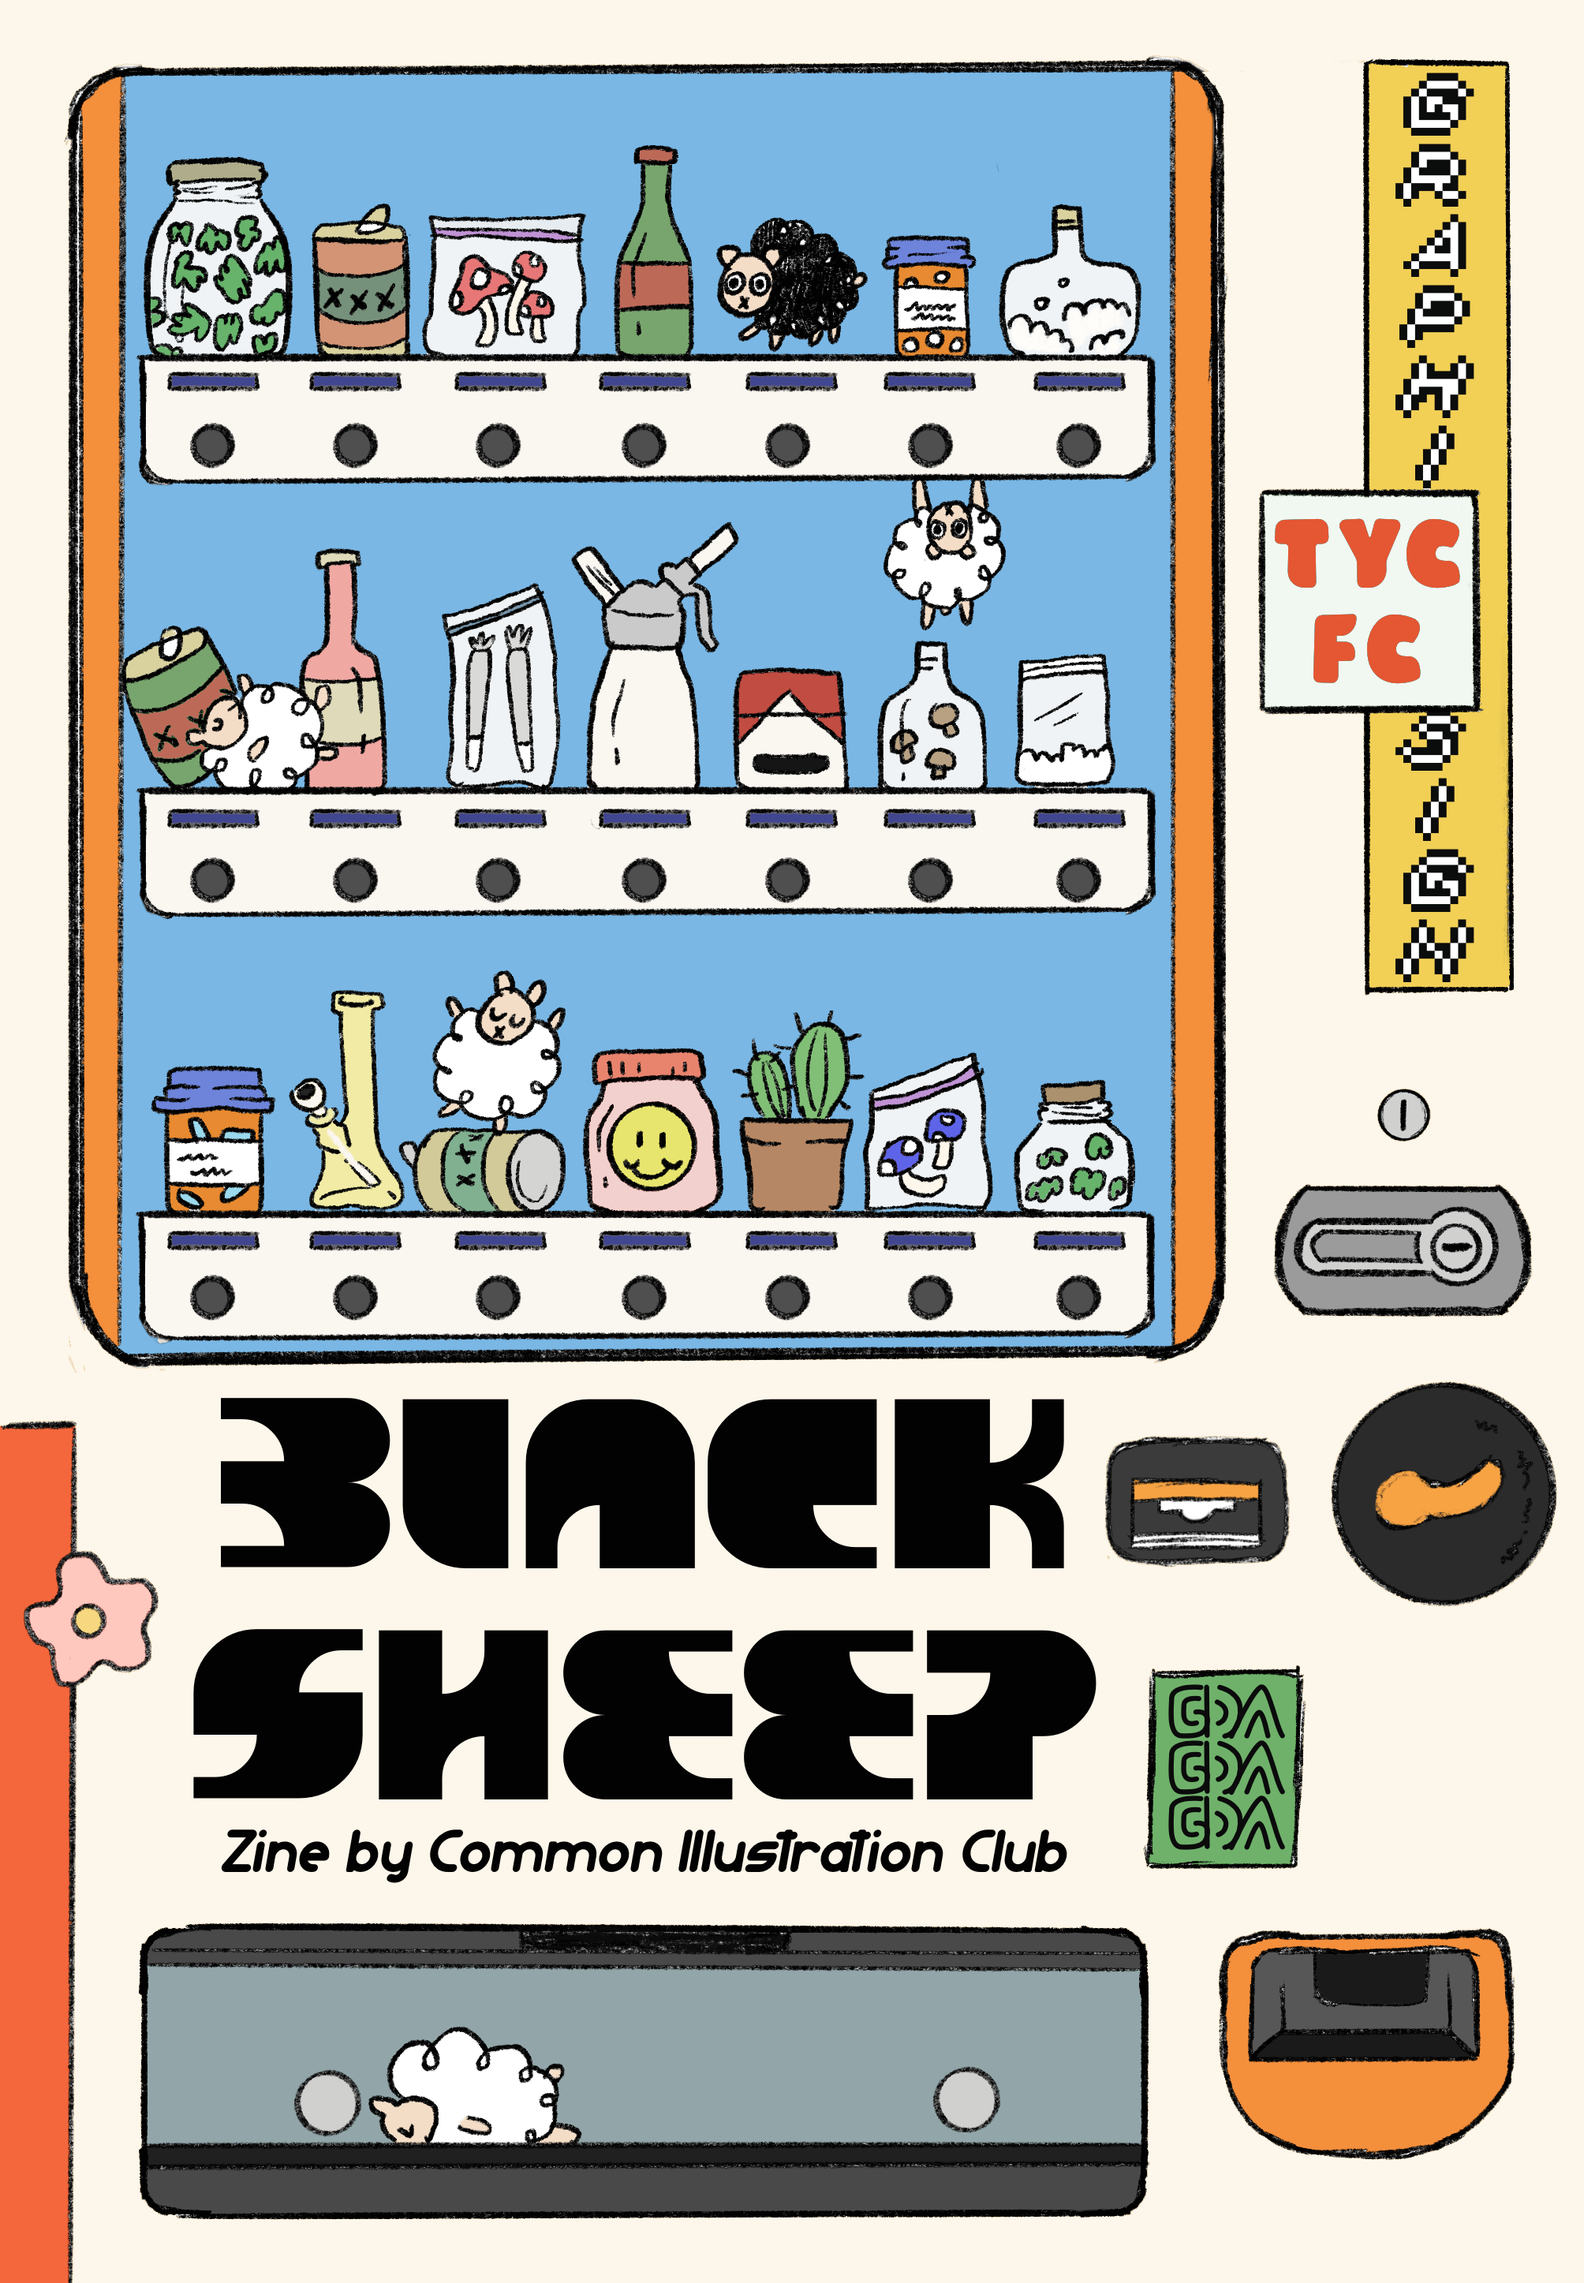
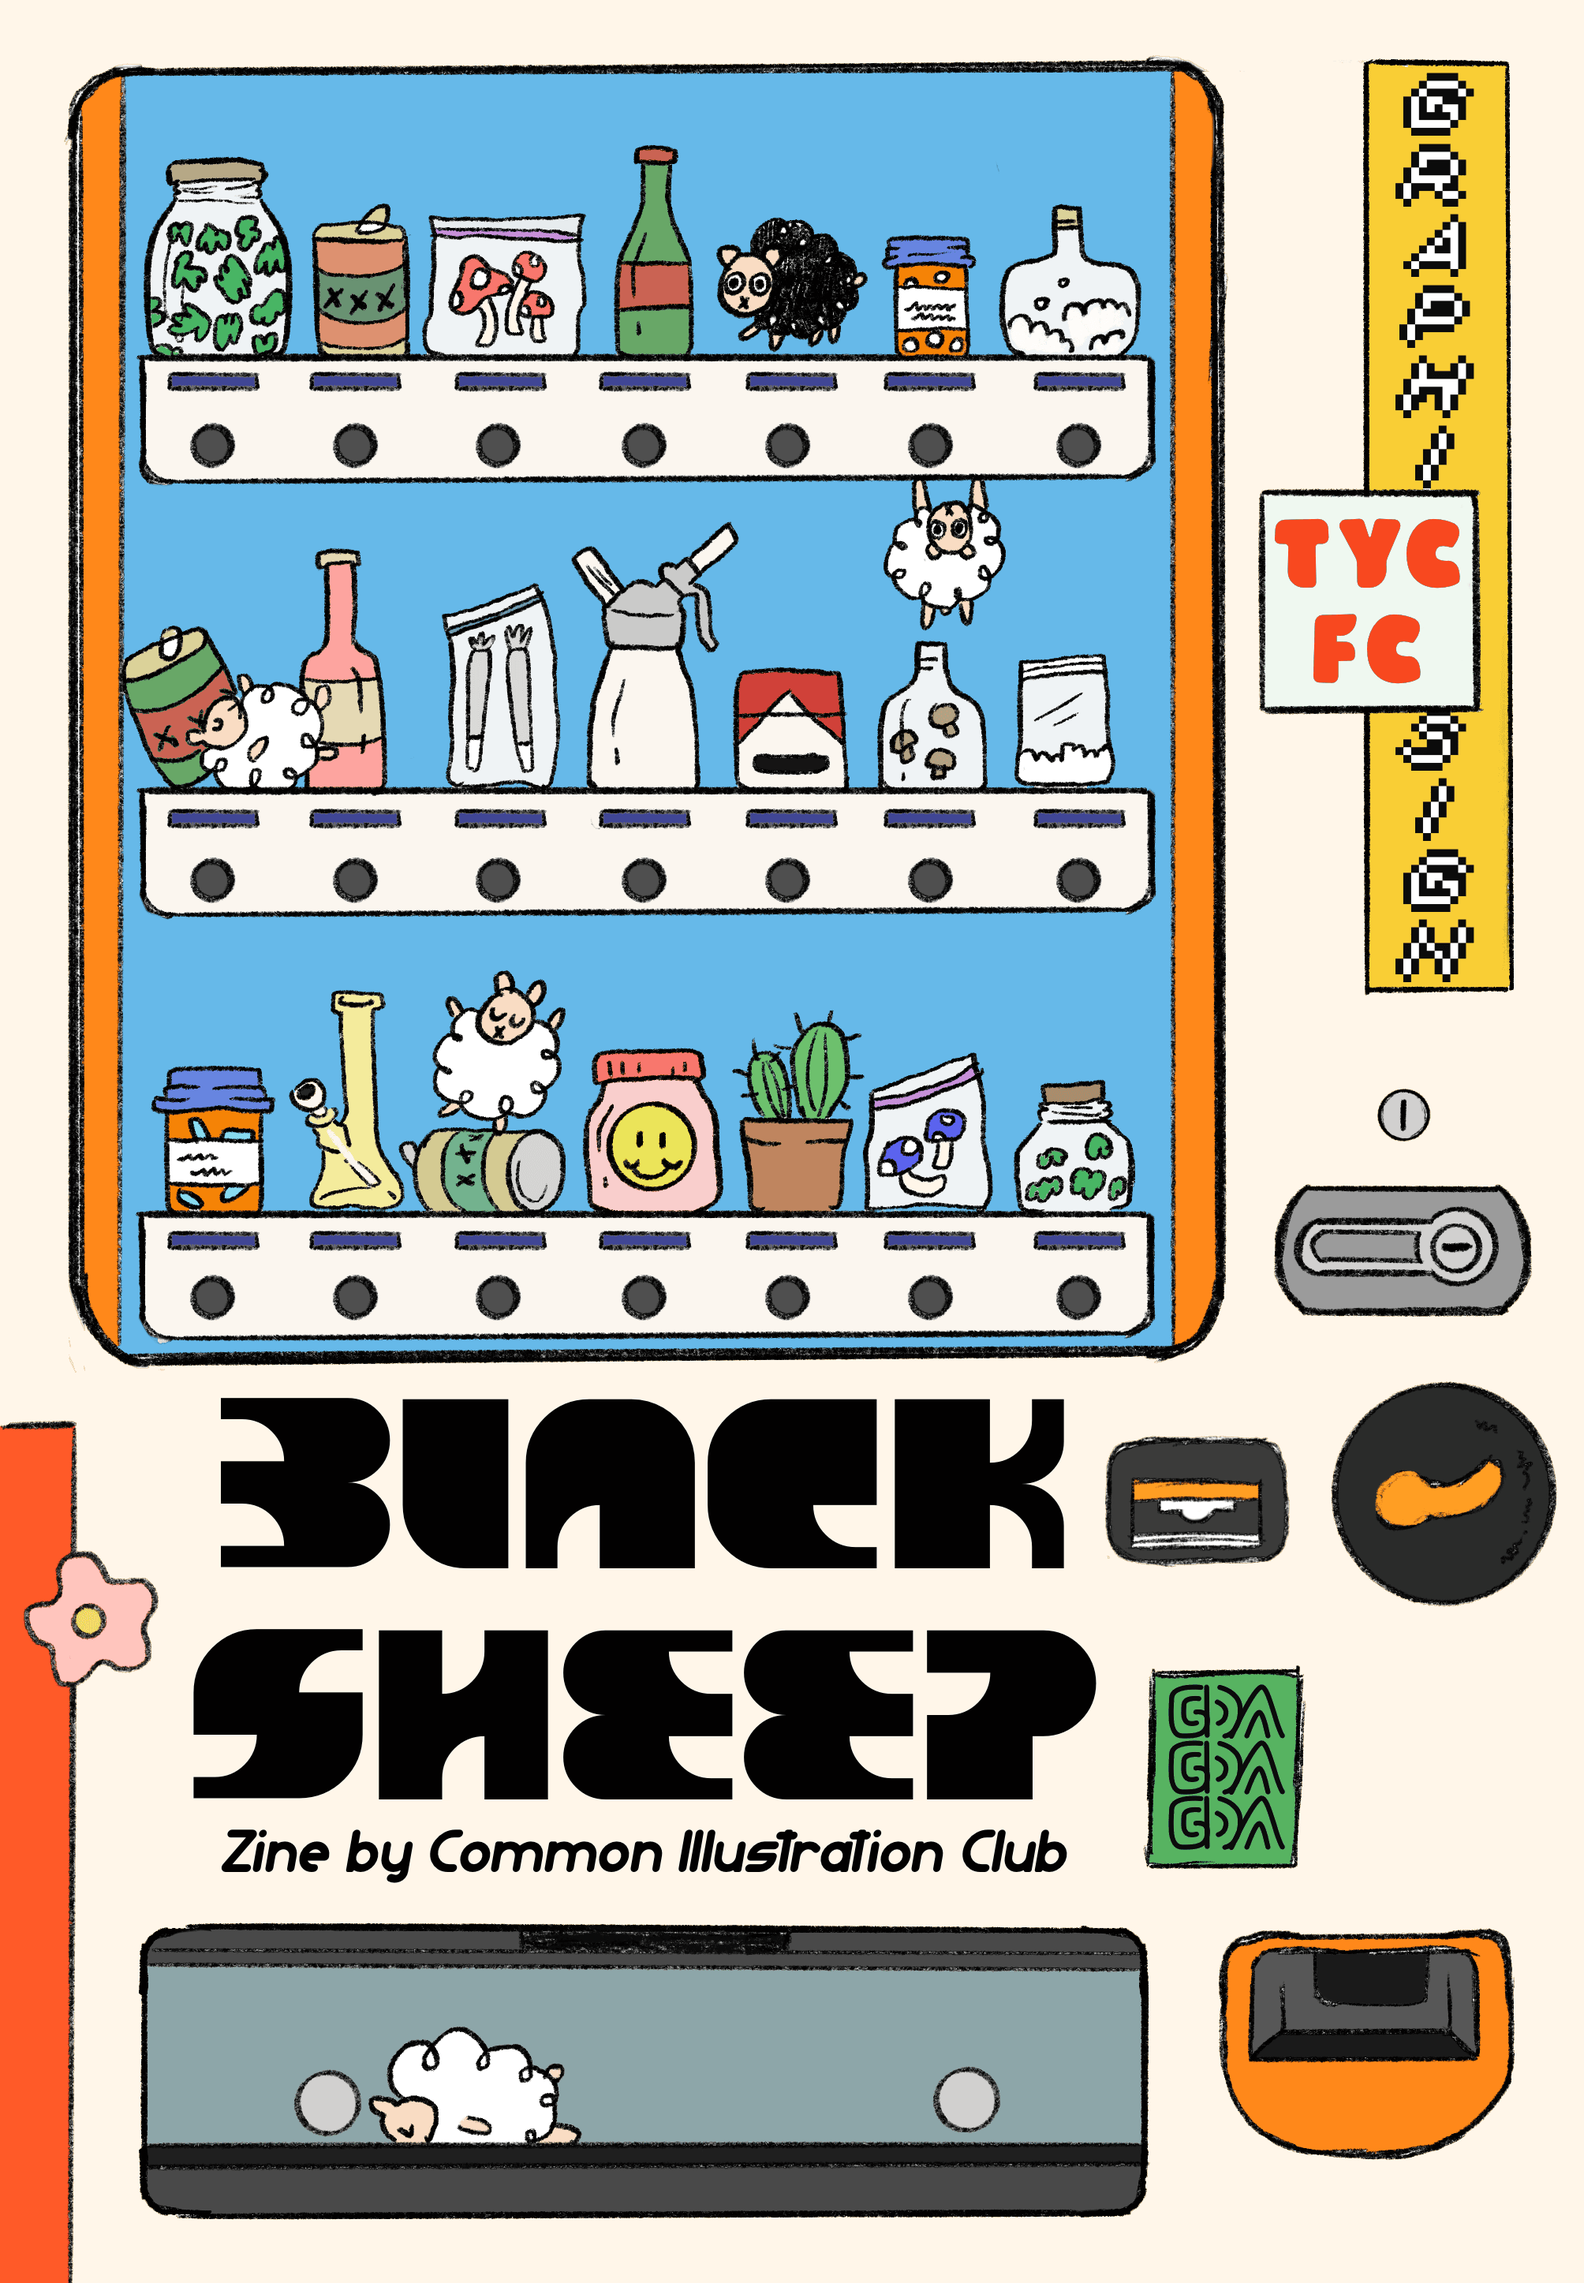
compress images

diff --git a/css/style.css b/css/style.css
@@ -1223,7 +1223,7 @@ body.offcanvas #fh5co-main, body.offcanvas .fh5co-nav-toggle {
   .fh5co-heading {
     margin-top: 1em;
     margin-bottom: 1em;
-    font-size: 50px;
+    font-size: 45px;
   }
   .fh5co-nav-toggle {
     opacity: 1;
